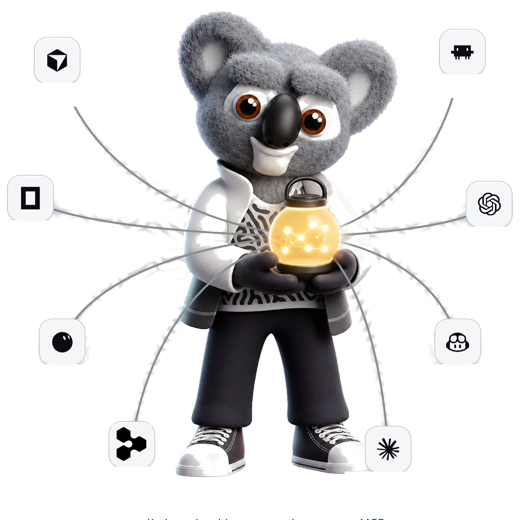
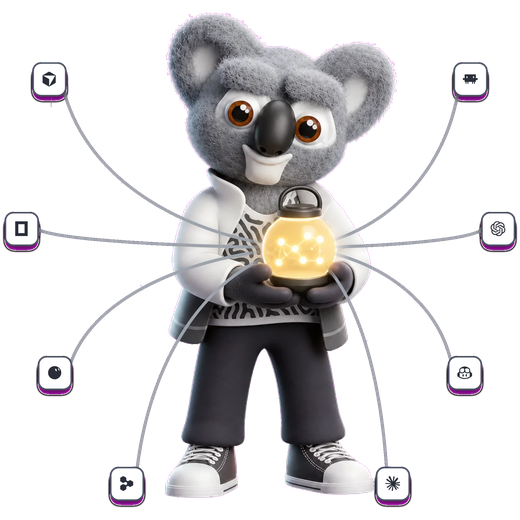
Rebuild OG hero from magenta-screen UI capture
Replace the fragile light-gray PNG key (which punched holes in
kody-base's designed transparency and ate chip borders/shadows) with a
capture of the agents stage on magenta after flattening interior
cutouts, plus a small tools/og-hero-capture workflow for regenerating.

Changed region(s): [[0.0, 0.0, 1.0, 1.0]]

diff --git a/tools/og-hero-capture/index.html b/tools/og-hero-capture/index.html
@@ -1,0 +1,242 @@
+<!doctype html>
+<html lang="en">
+	<head>
+		<meta charset="utf-8" />
+		<meta name="viewport" content="width=device-width, initial-scale=1" />
+		<title>OG hero capture (green screen)</title>
+		<style>
+			:root {
+				--color-text: #2a2e38;
+				--color-surface: #f7f8f9;
+				--color-border: #c9ced6;
+				--lantern-glow: oklch(0.88 0.11 85 / 0.4);
+			}
+			* {
+				box-sizing: border-box;
+			}
+			html,
+			body {
+				margin: 0;
+				padding: 0;
+				background: #ff00ff;
+				overflow: hidden;
+				font-family:
+					system-ui,
+					-apple-system,
+					sans-serif;
+			}
+			.stage {
+				position: relative;
+				width: 1000px;
+				height: 1000px;
+				margin: 40px auto;
+				isolation: isolate;
+			}
+			.kody {
+				position: relative;
+				z-index: 1;
+				display: block;
+				width: 100%;
+				height: auto;
+			}
+			.glow {
+				position: absolute;
+				z-index: 1;
+				left: 57%;
+				top: 49.4%;
+				width: 26%;
+				aspect-ratio: 1;
+				translate: -50% -50%;
+				border-radius: 50%;
+				background: radial-gradient(
+					closest-side,
+					var(--lantern-glow),
+					transparent 70%
+				);
+				mix-blend-mode: screen;
+				pointer-events: none;
+			}
+			.lines {
+				position: absolute;
+				inset: 0;
+				width: 100%;
+				height: 100%;
+				overflow: visible;
+				pointer-events: none;
+				z-index: 2;
+				mask-image: radial-gradient(
+					ellipse 9.5% 8.2% at 57% 49.4%,
+					transparent 66%,
+					black 100%
+				);
+				-webkit-mask-image: radial-gradient(
+					ellipse 9.5% 8.2% at 57% 49.4%,
+					transparent 66%,
+					black 100%
+				);
+			}
+			.line {
+				fill: none;
+				stroke: color-mix(in oklab, var(--color-border) 75%, var(--color-text));
+				stroke-width: 0.55;
+				stroke-linecap: round;
+			}
+			.line-glow {
+				fill: none;
+				stroke: var(--color-text);
+				stroke-width: 1.4;
+				stroke-linecap: round;
+				opacity: 0.06;
+				filter: blur(0.5px);
+			}
+			.list {
+				list-style: none;
+				margin: 0;
+				padding: 0;
+				position: absolute;
+				inset: 0;
+				z-index: 3;
+				pointer-events: none;
+			}
+			.agent {
+				position: absolute;
+				left: var(--x);
+				top: var(--y);
+				translate: -50% -50%;
+				display: flex;
+				flex-direction: column;
+				align-items: center;
+				z-index: 3;
+			}
+			.agent::before {
+				content: '';
+				position: absolute;
+				top: 0.45rem;
+				left: 50%;
+				translate: -50% 0;
+				width: 4rem;
+				height: 4rem;
+				border-radius: 1.1rem;
+				background: rgba(20, 22, 28, 0.65);
+				z-index: -1;
+				filter: blur(5px);
+			}
+			.tile {
+				display: grid;
+				place-items: center;
+				width: 3.85rem;
+				height: 3.85rem;
+				border-radius: 1rem;
+				color: #2a2e38;
+				background: #ffffff;
+				border: 3px solid #4a5260;
+			}
+			.tile::before {
+				content: '';
+				width: 1.7rem;
+				height: 1.7rem;
+				background: currentColor;
+				mask-image: var(--chip-icon);
+				mask-position: center;
+				mask-size: contain;
+				mask-repeat: no-repeat;
+				-webkit-mask-image: var(--chip-icon);
+				-webkit-mask-position: center;
+				-webkit-mask-size: contain;
+				-webkit-mask-repeat: no-repeat;
+			}
+		</style>
+	</head>
+	<body>
+		<div class="stage" id="stage">
+			<img
+				class="kody"
+				src="./kody-base-og-flat.png"
+				width="1254"
+				height="1254"
+				alt=""
+			/>
+			<div class="glow"></div>
+			<svg class="lines" viewBox="0 0 100 100" aria-hidden="true">
+				<g id="tethers"></g>
+			</svg>
+			<ul class="list" id="agents" aria-hidden="true"></ul>
+		</div>
+		<script>
+			const lantern = { x: 57, y: 49.4 }
+			const hostAgents = [
+				{ label: 'Cursor', icon: 'cursor', x: 12, y: 19 },
+				{ label: 'Claude Code', icon: 'claudecode', x: 88, y: 19 },
+				{ label: 'ChatGPT', icon: 'chatgpt', x: 93, y: 46 },
+				{ label: 'Copilot', icon: 'githubcopilot', x: 87, y: 72 },
+				{ label: 'Claude', icon: 'claude', x: 74, y: 92 },
+				{ label: 'Devin', icon: 'devin', x: 26, y: 92 },
+				{ label: 'Grok Bot', icon: 'grokbot', x: 13, y: 72 },
+				{ label: 'OpenCode', icon: 'opencode', x: 7, y: 46 },
+			]
+			function tetherPath(x, y, hx, hy) {
+				const dx = hx - x
+				const dy = hy - y
+				const len = Math.hypot(dx, dy) || 1
+				// Start on the tile rim (not the center) so the stroke meets the chip.
+				const inset = 0
+				const sx = x + (dx / len) * inset
+				const sy = y + (dy / len) * inset
+				const c1x = sx + dx * 0.1
+				const c1y = sy + dy * 0.6
+				const c2x = hx - dx * 0.45
+				const c2y = hy - dy * 0.05
+				return `M${sx} ${sy} C${c1x} ${c1y} ${c2x} ${c2y} ${hx} ${hy}`
+			}
+			const tethers = document.getElementById('tethers')
+			const agents = document.getElementById('agents')
+			const stage = document.getElementById('stage')
+			const tiles = []
+			for (const agent of hostAgents) {
+				const li = document.createElement('li')
+				li.className = 'agent'
+				li.style.setProperty('--x', `${agent.x}%`)
+				li.style.setProperty('--y', `${agent.y}%`)
+				li.innerHTML = `<span class="tile" style="--chip-icon:url('../../packages/worker/public/images/icons/${agent.icon}.svg')"></span>`
+				agents.appendChild(li)
+				tiles.push(li.querySelector('.tile'))
+			}
+			function redraw() {
+				const sr = stage.getBoundingClientRect()
+				const toU = (px, py) => ({
+					x: ((px - sr.left) / sr.width) * 100,
+					y: ((py - sr.top) / sr.height) * 100,
+				})
+				const kody = stage.querySelector('.kody')
+				const kr = kody.getBoundingClientRect()
+				const end = toU(
+					kr.left + (kr.width * lantern.x) / 100,
+					kr.top + (kr.height * lantern.y) / 100,
+				)
+				tethers.replaceChildren()
+				tiles.forEach((tile) => {
+					const tr = tile.getBoundingClientRect()
+					const cx = tr.left + tr.width / 2
+					const cy = tr.top + tr.height / 2
+					// Point on the tile border toward the lantern
+					const dx = end.x - ((cx - sr.left) / sr.width) * 100
+					const dy = end.y - ((cy - sr.top) / sr.height) * 100
+					const ang = Math.atan2(dy, dx)
+					const startPx = {
+						x: cx + Math.cos(ang) * (tr.width / 2),
+						y: cy + Math.sin(ang) * (tr.height / 2),
+					}
+					const start = toU(startPx.x, startPx.y)
+					const d = tetherPath(start.x, start.y, end.x, end.y)
+					const g = document.createElementNS('http://www.w3.org/2000/svg', 'g')
+					g.innerHTML = `<path class="line-glow" d="${d}" /><path class="line" d="${d}" />`
+					tethers.appendChild(g)
+				})
+			}
+			const img = stage.querySelector('.kody')
+			if (img.complete) redraw()
+			else img.addEventListener('load', redraw)
+			requestAnimationFrame(() => requestAnimationFrame(redraw))
+		</script>
+	</body>
+</html>

diff --git a/tools/og-hero-capture/readme.md b/tools/og-hero-capture/readme.md
@@ -1,0 +1,23 @@
+# OG hero capture (agents orbit)
+
+Rebuild `packages/worker/public/og/kody-hero.png` from the live agents
+composition without the fragile “key the light-gray marketing PNG” path.
+
+## Why
+
+`kody-base.webp` deliberately leaves white shirt / shoe / eye areas transparent
+so the page background shows through. Keying a pre-composited light-gray PNG
+punched holes in those areas and ate chip borders / shadows. Capturing the UI
+on a chroma screen after flattening designed transparency is more reliable.
+
+## Steps
+
+1. Serve this folder together with `packages/worker/public` (icons + paths), or
+   open `index.html` via a static server that can resolve the icon URLs.
+2. Screenshot `#stage` at 2× (Playwright / Chrome).
+3. Chroma-key `#ff00ff` (magenta) with a soft fringe + despeckle.
+4. Crop to content, pad square, resize to 520×520, write
+   `packages/worker/public/og/kody-hero.png`.
+
+`kody-base-og-flat.png` is `kody-base` with interior transparent “white”
+cutouts filled white so dark OG cards stay opaque.
